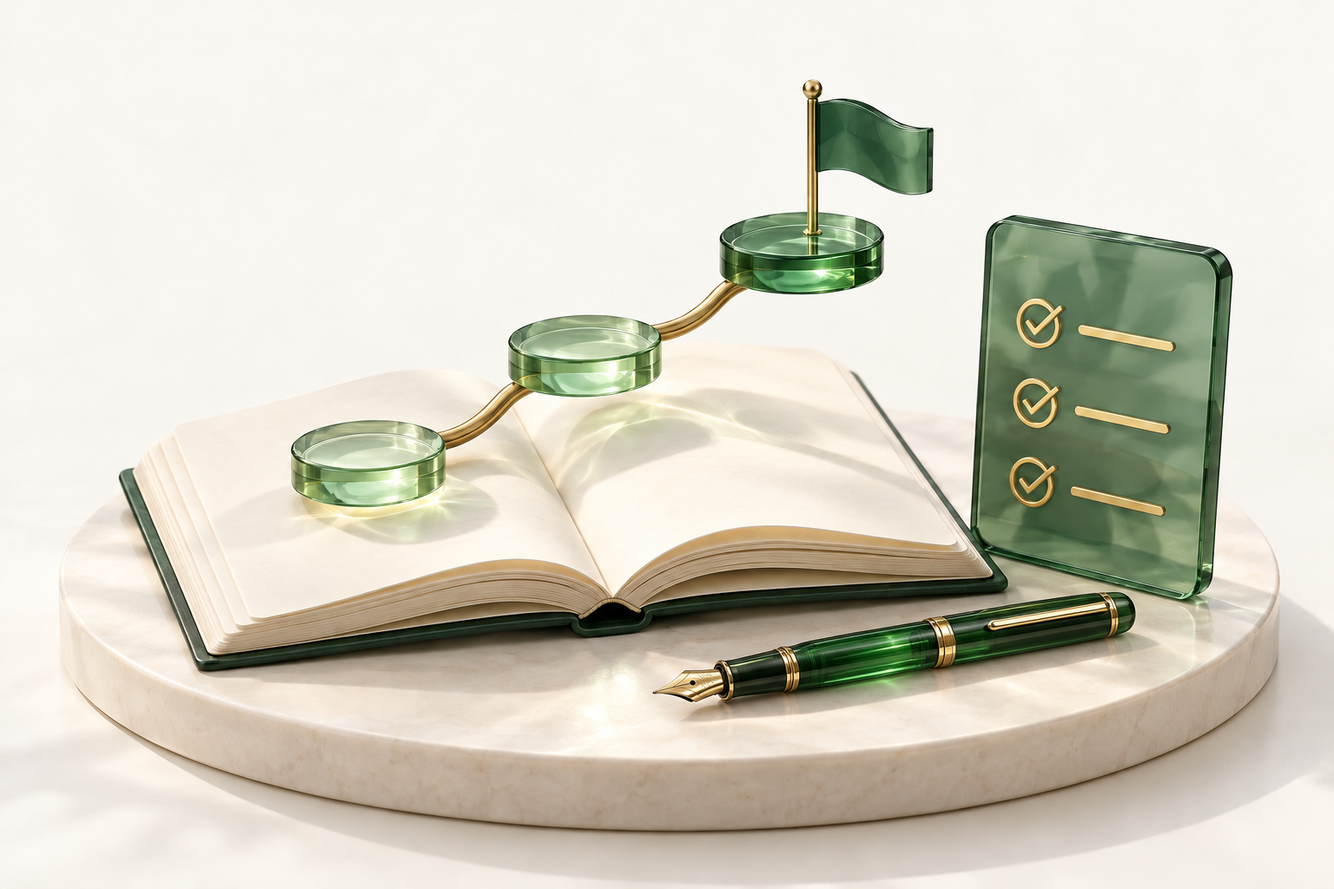
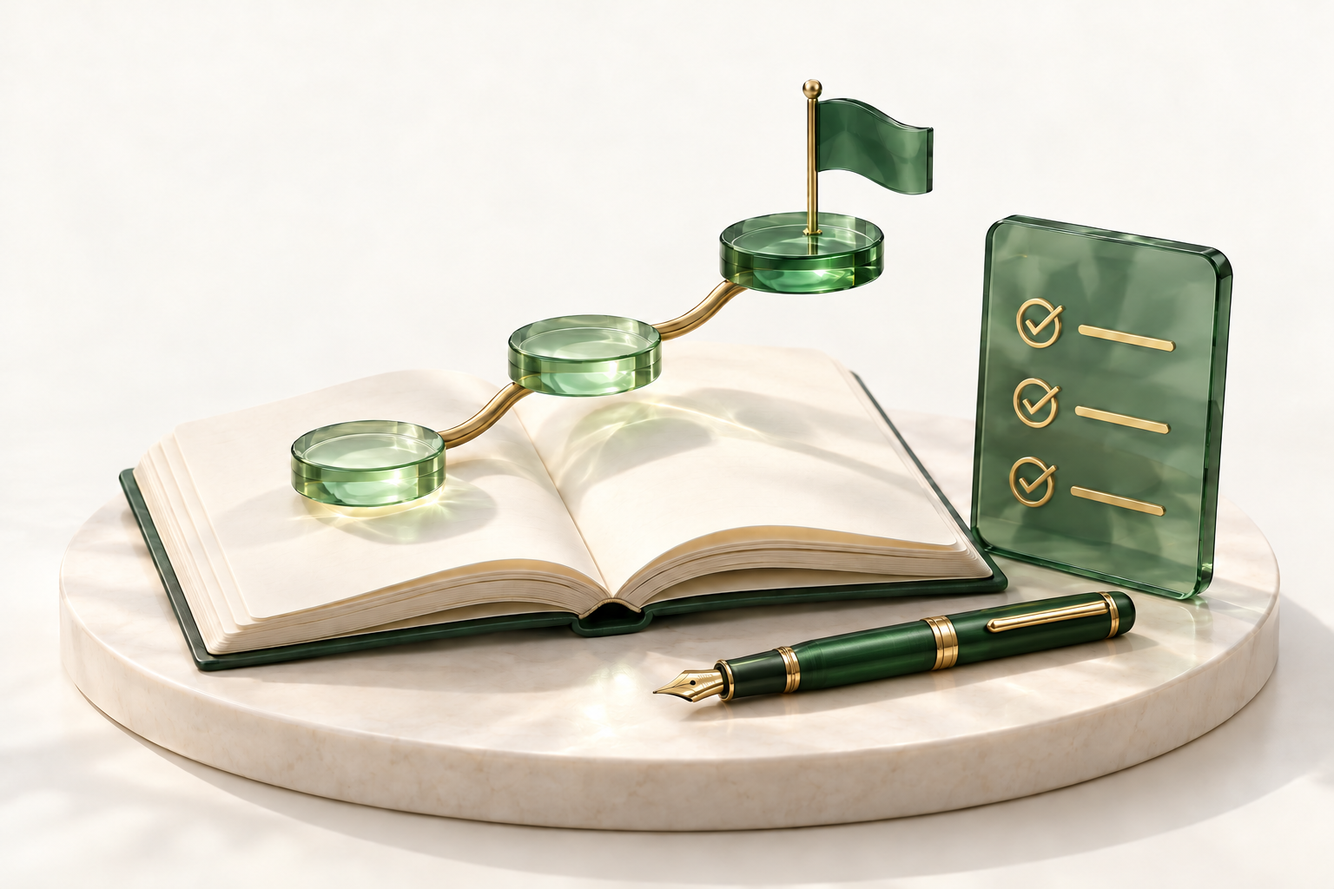
feat: simplify cloud native topics and refine fountain pen material

diff --git a/docs/pages/programming/阅读页模板.html b/docs/pages/programming/阅读页模板.html
@@ -20,6 +20,7 @@
     @media(max-width:840px){#sidebar{transform:translateX(-100%);transition:transform .2s}body.nav-open #sidebar{transform:none}.workspace{margin-left:0}.progress{left:0}#menu{display:block}header{padding:0 22px}.hero h1{font-size:42px}}
     @media(max-width:560px){header{height:60px;padding:0 16px;gap:8px}.progress{top:59px}.breadcrumb{gap:7px;font-size:10px}.breadcrumb .home-crumb{display:none}.breadcrumb b{max-width:120px}.top-actions{gap:4px}.top-actions button{font-size:10px;padding:4px 7px}main{padding:25px 21px 0}.hero{grid-template-columns:1fr;gap:12px;padding:5px 0 25px}.hero h1{font-size:38px;line-height:1.55;margin:15px 0}.hero p{max-width:none}.hero img{max-width:430px;justify-self:center}.stats{padding:17px 0;margin-bottom:28px}.stats strong{display:block;margin:0;font-size:25px}.stats span{font-size:10px}.folders{grid-template-columns:1fr;gap:14px}.folder{padding:20px}.section-heading{align-items:start;flex-direction:column;gap:6px}.section-heading h2{font-size:25px}.study-note{align-items:start;flex-direction:column;gap:13px}.document-head h1{font-size:28px}.reading-tools{gap:13px}.source-link{font-size:10px}.prose{font-size:13px}.prose h2{font-size:21px}.prose h3{font-size:17px}.prose .code-block pre{padding:15px}.document-pager{font-size:10px}.resource-frame{min-height:440px}.guide{padding:18px}.page-footer{font-size:9px;gap:12px}}
     @media(max-width:560px){.section-card{min-height:195px}.section-card h3{font-size:23px}.breadcrumb .level-crumb,.breadcrumb .level-divider{display:none}.section-page-head h1{font-size:30px}.section-page-head p{font-size:12px}}
+    .nav-topic-link{display:flex;gap:9px;align-items:center;padding:10px 8px;margin:2px 0;color:var(--ink);font-size:11px;border-radius:5px}.nav-topic-link:hover{background:var(--paper)}.nav-topic-link[aria-expanded=true]{background:var(--soft);color:var(--green)}.nav-topic-link small{margin-left:auto;color:var(--muted);font-size:10px}.topic-notes{margin-left:8px;padding-left:7px;border-left:1px solid var(--line)}.section-card.is-pending{grid-column:1/-1;min-height:0}
     .prose li.task-item{list-style:none;position:relative}.prose .task-item>input,.prose .task-item>p>input{accent-color:var(--green);width:14px;height:14px;vertical-align:middle;margin:0 7px 2px -21px;opacity:1}
     .section-card.has-cover{padding:0;overflow:hidden}.section-cover{display:block;width:100%;height:auto;aspect-ratio:3/2;object-fit:cover;background:#fafbf8}.section-copy{display:flex;flex-direction:column;flex:1;padding:24px}.has-cover .section-copy h3{margin-top:14px}.has-cover .section-copy p{flex:1}html[data-theme=dark] .section-cover{filter:brightness(.86)}
     @media(max-width:560px){.section-copy{padding:21px}.has-cover .section-bottom{gap:10px}.has-cover .section-bottom b{white-space:nowrap}}
@@ -42,7 +43,7 @@
   </aside>
   <button id="shade" aria-label="关闭目录" hidden></button>
   <div class="workspace">
-    <header><nav class="breadcrumb" aria-label="位置"><button id="menu" aria-label="打开目录" aria-expanded="false" aria-controls="sidebar">☰</button><a class="home-crumb" href="<!--HOME_URL-->">学习笔记</a><span class="home-crumb">/</span><!--PARENT_CRUMB--><a id="language-crumb" class="level-crumb" href="#overview" hidden></a><span id="language-divider" class="level-divider" hidden>/</span><a id="section-crumb" class="level-crumb" hidden></a><span id="section-divider" class="level-divider" hidden>/</span><b id="breadcrumb-title"><!--TITLE--></b></nav><div class="top-actions"><button id="theme" aria-label="切换深色模式" aria-pressed="false">深色</button><button id="print">打印</button></div></header>
+    <header><nav class="breadcrumb" aria-label="位置"><button id="menu" aria-label="打开目录" aria-expanded="false" aria-controls="sidebar">☰</button><a class="home-crumb" href="<!--HOME_URL-->">学习笔记</a><span class="home-crumb">/</span><!--PARENT_CRUMB--><a id="language-crumb" class="level-crumb" href="#overview" hidden></a><span id="language-divider" class="level-divider" hidden>/</span><a id="section-crumb" class="level-crumb" hidden></a><span id="section-divider" class="level-divider" hidden>/</span><a id="topic-crumb" class="level-crumb" hidden></a><span id="topic-divider" class="level-divider" hidden>/</span><b id="breadcrumb-title"><!--TITLE--></b></nav><div class="top-actions"><button id="theme" aria-label="切换深色模式" aria-pressed="false">深色</button><button id="print">打印</button></div></header>
     <div class="progress" aria-hidden="true"><span id="progress"></span></div>
     <main id="main" tabindex="-1">
       <section id="overview"></section>
@@ -67,31 +68,40 @@
     const save=(key,value)=>{try{localStorage.setItem('programming-'+config.slug+'-'+key,value)}catch{}};
     const labels={note:'笔记',practice:'习题',diagram:'图解',pdf:'PDF',resource:'资料',...(config.kindLabels||{})};
     if(config.kindLabels){document.querySelector('[data-filter=practice]').hidden=true;document.querySelector('[data-filter=material]').hidden=!pages.some(p=>['pdf','resource'].includes(p.kind));document.querySelector('[data-filter=note]').textContent='计划';document.querySelector('[data-filter=diagram]').textContent='HTML';document.querySelector('#document').setAttribute('aria-label','当前计划');document.querySelector('#search').placeholder='搜索计划、任务与学习方向'}
-    let active='overview', filter='all', mode=get('mode')||'full', currentPage=null, currentSection=null, tocNodes=[], pendingQuery='';
+    let active='overview', filter='all', mode=get('mode')||'full', currentPage=null, currentSection=null, currentTopic=null, tocNodes=[], pendingQuery='';
     if(!['guide','full'].includes(mode))mode='full';
     const groups=[...new Set(pages.map(p=>p.group))];
-    const sections=config.sections||[];
+    const sections=config.sections||[], topics=sections.flatMap(section=>section.topics||[]);
     $('language-select').innerHTML=config.languages.map(item=>'<option value="'+escape(item.slug)+'"'+(item.slug===config.slug?' selected':'')+'>'+escape(item.title)+'</option>').join('');
     $('language-select').addEventListener('change',()=>location.href='../'+encodeURIComponent($('language-select').value)+'/');
     function catalog(){
       const terms=$('search').value.toLocaleLowerCase().trim().split(/\s+/).filter(Boolean);
-      const found=pages.filter(p=>(filter==='all'||(filter==='material'?['pdf','resource'].includes(p.kind):p.kind===filter))&&terms.every(term=>(p.title+' '+p.group+' '+p.search).toLocaleLowerCase().includes(term))&&(!currentSection||terms.length||p.section===currentSection.key));
+      const found=pages.filter(p=>(filter==='all'||(filter==='material'?['pdf','resource'].includes(p.kind):p.kind===filter))&&terms.every(term=>(p.title+' '+p.group+' '+p.search).toLocaleLowerCase().includes(term))&&(!currentSection||terms.length||p.section===currentSection.key)&&(!currentTopic||terms.length||p.topic===currentTopic.key));
       const home='<a class="nav-home" href="#overview"'+(active==='overview'?' aria-current="page"':'')+'>⌂　'+escape(config.title)+' 总览</a>';
       if(sections.length&&!terms.length&&filter==='all'){
-        $('catalog').innerHTML=home+sections.map(section=>{const selected=currentSection?.id===section.id;return '<div class="nav-section"><a class="nav-section-link" href="#'+section.id+'" aria-expanded="'+selected+'"'+(active===section.id?' aria-current="page"':'')+'><span class="section-chevron" aria-hidden="true">›</span><span>'+escape(section.title)+'</span><span class="section-count">'+section.count+'</span></a>'+(selected?'<div class="section-notes">'+noteLinks(pages.filter(p=>p.section===section.key),true)+'</div>':'')+'</div>'}).join('');
+        $('catalog').innerHTML=home+sections.map(section=>{const selected=currentSection?.id===section.id;return '<div class="nav-section"><a class="nav-section-link" href="#'+section.id+'" aria-expanded="'+selected+'"'+(active===section.id?' aria-current="page"':'')+'><span class="section-chevron" aria-hidden="true">›</span><span>'+escape(section.title)+'</span><span class="section-count">'+section.count+'</span></a>'+(selected?'<div class="section-notes">'+sectionLinks(section)+'</div>':'')+'</div>'}).join('');
       }else{
         $('catalog').innerHTML=home+(sections.length?'<p class="search-scope">'+(terms.length?'搜索全部 '+escape(config.title)+' 笔记':escape(currentSection?.title||config.title)+' · 按类型筛选')+' · '+found.length+' 项</p>':'')+noteLinks(found,false)+(!found.length?'<p class="empty" role="status">没有找到对应内容，试试其他关键词或选择“全部”。</p>':'');
       }
       document.querySelectorAll('[data-filter]').forEach(button=>button.setAttribute('aria-pressed',String(button.dataset.filter===filter)));
     }
+    function sectionLinks(section){
+      if(!section.topics?.length)return noteLinks(pages.filter(p=>p.section===section.key),true);
+      return section.topics.map(topic=>{const selected=currentTopic?.id===topic.id;return '<a class="nav-topic-link" href="#'+topic.id+'" aria-expanded="'+selected+'"'+(active===topic.id?' aria-current="page"':'')+'><span aria-hidden="true">'+(selected?'⌄':'›')+'</span><span>'+escape(topic.title)+'</span><small>'+topic.count+'</small></a>'+(selected?'<div class="topic-notes">'+noteLinks(pages.filter(p=>p.section===section.key&&p.topic===topic.key),true)+'</div>':'')}).join('');
+    }
     function noteLinks(entries,scoped){let group='';return entries.map(p=>{const label=scoped?p.subgroup:p.group,heading=group===label?'':'<div class="nav-group">'+escape(label)+'</div>';group=label;return heading+'<a class="nav-link" href="#'+p.id+'"'+(active===p.id?' aria-current="page"':'')+'><span class="badge">'+(p.pending?'待补充':labels[p.kind])+'</span><span>'+escape(p.title)+'</span></a>'}).join('')}
     function link(p){return '<li><a href="#'+p.id+'"><span>'+escape(p.title)+'</span><span>'+ (p.pending?'待补充':labels[p.kind]+' ↗')+'</span></a></li>'}
     function folderGrid(entries,scoped){const key=p=>scoped?p.subgroup:p.group,labels=[...new Set(entries.map(key))];return '<div class="folders">'+labels.map((group,index)=>{const notes=entries.filter(p=>key(p)===group);return '<section class="folder"><div class="folder-top"><span>'+String(index+1).padStart(2,'0')+'</span><span>'+notes.length+' 篇</span></div><h3>'+escape(group)+'</h3><ul class="folder-list">'+notes.slice(0,5).map(link).join('')+'</ul>'+(notes.length>5?'<details><summary>展开其余 '+(notes.length-5)+' 篇</summary><ul class="folder-list">'+notes.slice(5).map(link).join('')+'</ul></details>':'')+'</section>'}).join('')+'</div>'}
-    function overview(section){
-      if(section){const entries=pages.filter(p=>p.section===section.key);$('overview').innerHTML='<div class="section-page-head"><a href="#overview">← 返回 '+escape(config.title)+' 总览</a><div class="eyebrow">'+escape(config.label)+' / '+escape(section.title)+'</div><h1>'+escape(section.title)+'</h1><p>'+escape(section.description)+'</p><div class="document-meta"><span>'+section.notes+' '+escape(config.itemNoun||'篇笔记')+'</span><span>'+section.resources+' 份图解与资料</span></div></div>'+folderGrid(entries,true);return}
+    function overview(section,topic){
+      if(section){
+        const entries=pages.filter(p=>p.section===section.key&&(!topic||p.topic===topic.key)), view=topic||section;
+        const head='<div class="section-page-head"><a href="#'+(topic?section.id:'overview')+'">← 返回 '+escape(topic?section.title:config.title+' 总览')+'</a><div class="eyebrow">'+escape(config.label)+' / '+escape(section.title)+'</div><h1>'+escape(view.title)+'</h1><p>'+escape(view.description)+'</p><div class="document-meta"><span>'+view.notes+' '+escape(config.itemNoun||'篇笔记')+'</span><span>'+view.resources+' 份图解与资料</span>'+(view.pending?'<span>'+view.pending+' 篇待补充</span>':'')+'</div></div>';
+        const cards=!topic&&section.topics?.length?'<div class="folders topic-cards">'+section.topics.map((item,index)=>'<a class="folder section-card topic-card" href="#'+item.id+'"><div class="folder-top"><span>TOPIC '+String(index+1).padStart(2,'0')+'</span><span aria-hidden="true">↗</span></div><h3>'+escape(item.title)+'</h3><p>'+escape(item.description)+'</p><div class="section-bottom"><span>'+item.notes+' 篇笔记 · '+item.resources+' 份资料</span><b>进入主题 →</b></div></a>').join('')+'</div>':folderGrid(entries,true);
+        $('overview').innerHTML=head+cards;return;
+      }
       const last=pages.find(p=>p.id===get('last'))||pages.find(p=>!p.pending&&['note','practice'].includes(p.kind));
       const start=sections.length&&!get('last')?sections[0].id:last?.id;
-      const cards=sections.length?'<div class="folders section-cards">'+sections.map((item,index)=>'<a class="folder section-card'+(item.cover?' has-cover':'')+'" href="#'+item.id+'">'+(item.cover?'<img class="section-cover" src="'+escape(item.cover)+'" alt="" width="1536" height="1024" loading="lazy" decoding="async"><div class="section-copy">':'')+'<div class="folder-top"><span>SECTION '+String(index+1).padStart(2,'0')+'</span><span aria-hidden="true">↗</span></div><h3>'+escape(item.title)+'</h3><p>'+escape(item.description)+'</p><div class="section-bottom"><span>'+item.notes+' '+escape(config.itemNoun||'篇笔记')+' · '+item.resources+' 份资料'+(item.pending?' · '+item.pending+' 篇待补充':'')+'</span><b>进入板块 →</b></div>'+(item.cover?'</div>':'')+'</a>').join('')+'</div>':folderGrid(pages,false);
+      const cards=sections.length?'<div class="folders section-cards">'+sections.map((item,index)=>'<a class="folder section-card'+(item.cover?' has-cover':'')+(!item.notes&&!item.resources&&item.pending?' is-pending':'')+'" href="#'+item.id+'">'+(item.cover?'<img class="section-cover" src="'+escape(item.cover)+'" alt="" width="1536" height="1024" loading="lazy" decoding="async"><div class="section-copy">':'')+'<div class="folder-top"><span>SECTION '+String(index+1).padStart(2,'0')+'</span><span aria-hidden="true">↗</span></div><h3>'+escape(item.title)+'</h3><p>'+escape(item.description)+'</p><div class="section-bottom"><span>'+item.notes+' '+escape(config.itemNoun||'篇笔记')+' · '+item.resources+' 份资料'+(item.pending?' · '+item.pending+' 篇待补充':'')+'</span><b>进入板块 →</b></div>'+(item.cover?'</div>':'')+'</a>').join('')+'</div>':folderGrid(pages,false);
       $('overview').innerHTML='<section class="hero"><div><div class="eyebrow">'+escape(config.label)+' / LEARNING NOTES</div><h1>'+escape(config.heroLines[0])+'<br><em>'+escape(config.heroLines[1])+'</em></h1><p>'+escape(config.description)+'</p><div class="hero-links">'+(start?'<a class="primary" href="#'+start+'">'+(get('last')?'继续阅读':sections.length?'选择学习板块':'开始阅读')+' <span aria-hidden="true">↗</span></a>':'')+'<a class="text-link" href="'+escape(config.source)+'" target="_blank" rel="noopener">查看原笔记 ↗</a></div></div><img src="'+escape(config.coverUrl)+'" alt="" width="1536" height="1024"></section><div class="stats"><div><strong>'+config.notes+'</strong><span>'+escape(config.noteNoun||'篇学习笔记')+'</span></div><div><strong>'+(sections.length||groups.length)+'</strong><span>'+(sections.length?(config.sectionNoun||'个学习板块'):'个内容分类')+'</span></div><div><strong>'+config.resources+'</strong><span>'+escape(config.resourceNoun||'份图解与资料')+'</span></div></div><section aria-labelledby="folder-heading"><div class="section-heading"><div><div class="eyebrow">FOLLOW THE NOTES / 沿着目录阅读</div><h2 id="folder-heading">'+(config.sectionHeading||(sections.length?'选择一个板块，继续学习。':'把知识，一点点连起来。'))+'</h2><p>'+(config.sectionIntro||(sections.length?'先理清方向，再进入具体的笔记与练习。':'从基础语法到补充理解，再在习题与实践中检验。'))+'</p></div><span class="text-link">'+(sections.length?sections.length+' 个板块':pages.length+' 个阅读条目')+'</span></div>'+cards+'</section>'+(sections.length?'':'<section class="study-note"><h2>学会一个概念，<br>也试着写一段代码。</h2><p>先理解例子，再独立实现。遇到疑问时回到笔记，把使用条件、错误原因和自己的解释一起留下来。</p></section>');
     }
     function highlight(){
@@ -112,20 +122,25 @@
     }
     function render(){
       let hash;try{hash=decodeURIComponent(location.hash.slice(1))}catch{hash='overview'}
+      hash=config.redirects?.[hash]||hash;
+      const selectedTopic=topics.find(topic=>topic.id===hash);
       const page=pages.find(p=>p.id===hash||p.headings.some(h=>h.id===hash));
-      currentSection=page?sections.find(section=>section.key===page.section)||null:sections.find(section=>section.id===hash)||null;
-      active=page?.id||currentSection?.id||'overview';currentPage=page||null;
-      $('overview').hidden=!!page;$('document').hidden=!page;$('breadcrumb-title').textContent=page?.title||currentSection?.title||config.title;
+      currentSection=page?sections.find(section=>section.key===page.section)||null:selectedTopic?sections.find(section=>section.key===selectedTopic.section)||null:sections.find(section=>section.id===hash)||null;
+      currentTopic=page?topics.find(topic=>topic.section===page.section&&topic.key===page.topic)||null:selectedTopic||null;
+      active=page?.id||currentTopic?.id||currentSection?.id||'overview';currentPage=page||null;
+      $('overview').hidden=!!page;$('document').hidden=!page;$('breadcrumb-title').textContent=page?.title||currentTopic?.title||currentSection?.title||config.title;
       $('language-crumb').textContent=config.title;$('language-crumb').hidden=$('language-divider').hidden=!page&&!currentSection;
-      $('section-crumb').hidden=$('section-divider').hidden=!page||!currentSection;
+      $('section-crumb').hidden=$('section-divider').hidden=(!page&&!currentTopic)||!currentSection;
       if(currentSection){$('section-crumb').textContent=currentSection.title;$('section-crumb').href='#'+currentSection.id}
-      document.title=(page?page.title+' · ':currentSection?currentSection.title+' · ':'')+config.title+' · 学习笔记';
-      if(!page){$('note-body').replaceChildren();$('resource').replaceChildren();tocNodes=[];overview(currentSection);catalog();menu(false);window.scrollTo(0,0);progress();return}
+      $('topic-crumb').hidden=$('topic-divider').hidden=!page||!currentTopic;
+      if(currentTopic){$('topic-crumb').textContent=currentTopic.title;$('topic-crumb').href='#'+currentTopic.id}
+      document.title=(page?page.title+' · ':currentTopic?currentTopic.title+' · ':currentSection?currentSection.title+' · ':'')+config.title+' · 学习笔记';
+      if(!page){$('note-body').replaceChildren();$('resource').replaceChildren();tocNodes=[];overview(currentSection,currentTopic);catalog();menu(false);window.scrollTo(0,0);progress();return}
       const isNote=['note','practice'].includes(page.kind), headingTarget=page.headings.some(h=>h.id===hash);
       if(headingTarget)mode='full';
       save('last',page.id);$('doc-title').textContent=page.title;$('doc-group').textContent=page.group;
       $('document-back').hidden=!currentSection;
-      if(currentSection){$('document-back').href='#'+currentSection.id;$('document-back').textContent='← 返回 '+currentSection.title}
+      if(currentSection){const parent=currentTopic||currentSection;$('document-back').href='#'+parent.id;$('document-back').textContent='← 返回 '+parent.title}
       $('doc-meta').innerHTML='<span>'+labels[page.kind]+'</span>'+(!isNote?'<span>'+escape(page.format)+'</span>':'')+(page.pending?'<span>内容待补充</span>':'')+(page.tasks?.total?'<span>原文勾选记录 '+page.tasks.done+' / '+page.tasks.total+' 项</span>':'');
       $('source').href=page.source;$('source').textContent=isNote?'查看 Markdown 原笔记 ↗':'查看与下载原文件 ↗';
       $('mode-switch').hidden=!isNote||page.pending;$('guide').hidden=!isNote||page.pending||mode!=='guide';
@@ -143,7 +158,7 @@
         const a=document.createElement('a');a.textContent=page.kind==='resource'?'查看与下载原文件 ↗':'独立打开 ↗';a.href=page.embed||page.pdf||page.source;a.target='_blank';a.rel='noopener';panel.append(a);$('resource').append(panel);
         if(page.embed||page.pdf){const frame=document.createElement('iframe');frame.className='resource-frame';frame.title=page.title;if(page.embed){frame.setAttribute('sandbox','allow-scripts');frame.src=page.embed}else{frame.src='<!--PDF_BASE-->pdfjs/web/viewer.html?file='+encodeURIComponent(new URL(page.pdf,location.href).href)+'#zoom=page-width&pagemode=none'}$('resource').append(frame)}
       }
-      const sequence=currentSection?pages.filter(p=>p.section===currentSection.key):pages,index=sequence.indexOf(page),previous=sequence[index-1],next=sequence[index+1],back=currentSection?.id||'overview',backTitle=currentSection?'返回 '+currentSection.title:'返回总览';
+      const sequence=currentTopic?pages.filter(p=>p.section===currentSection.key&&p.topic===currentTopic.key):currentSection?pages.filter(p=>p.section===currentSection.key):pages,index=sequence.indexOf(page),previous=sequence[index-1],next=sequence[index+1],parent=currentTopic||currentSection,back=parent?.id||'overview',backTitle=parent?'返回 '+parent.title:'返回总览';
       $('pager').innerHTML='<a href="#'+(previous?.id||back)+'">← '+escape(previous?.title||backTitle)+'</a><a href="#'+(next?.id||back)+'">'+escape(next?.title||backTitle)+' →</a>';
       document.querySelectorAll('[data-mode]').forEach(button=>button.setAttribute('aria-pressed',String(button.dataset.mode===mode)));
       highlight();tocNodes=[...$('note-body').querySelectorAll('h1,h2,h3')];catalog();menu(false);window.scrollTo(0,0);progress();
@@ -164,7 +179,7 @@
     $('search').addEventListener('input',catalog);
     document.querySelectorAll('[data-filter]').forEach(button=>button.addEventListener('click',()=>{filter=button.dataset.filter;catalog()}));
     document.querySelectorAll('[data-mode]').forEach(button=>button.addEventListener('click',()=>{mode=button.dataset.mode;save('mode',mode);if(currentPage)history.replaceState(null,'','#'+currentPage.id);render()}));
-    document.addEventListener('click',event=>{const full=event.target.closest('[data-full]');if(full){event.preventDefault();mode='full';save('mode',mode);render()}const link=event.target.closest('a[href^="#"]');if(link&&(link.hash==='#overview'||sections.some(section=>link.hash==='#'+section.id))){$('search').value='';filter='all';pendingQuery=''}});
+    document.addEventListener('click',event=>{const full=event.target.closest('[data-full]');if(full){event.preventDefault();mode='full';save('mode',mode);render()}const link=event.target.closest('a[href^="#"]');if(link&&(link.hash==='#overview'||sections.some(section=>link.hash==='#'+section.id)||topics.some(topic=>link.hash==='#'+topic.id))){$('search').value='';filter='all';pendingQuery=''}});
     document.addEventListener('keydown',event=>{if((event.ctrlKey||event.metaKey)&&event.key.toLowerCase()==='k'){event.preventDefault();if(matchMedia('(max-width:840px)').matches)menu(true);$('search').focus()}if(event.key==='Escape'&&document.body.classList.contains('nav-open')){menu(false);$('menu').focus()}});
     $('note-body').addEventListener('click',async event=>{const button=event.target.closest('.copy-code');if(!button)return;const text=button.closest('.code-block').querySelector('code').textContent;try{if(navigator.clipboard&&window.isSecureContext)await navigator.clipboard.writeText(text);else{const field=document.createElement('textarea');field.value=text;field.style.position='fixed';field.style.opacity='0';document.body.append(field);field.select();const copied=document.execCommand('copy');field.remove();if(!copied)throw new Error('copy failed')}button.textContent='已复制'}catch{button.textContent='请选择代码复制'}setTimeout(()=>button.textContent='复制代码',1800)});
     function themeButton(){const dark=document.documentElement.dataset.theme==='dark';$('theme').textContent=dark?'浅色':'深色';$('theme').setAttribute('aria-pressed',String(dark));$('theme').setAttribute('aria-label',dark?'切换浅色模式':'切换深色模式')}

diff --git a/docs/pages/build_site.py b/docs/pages/build_site.py
@@ -1334,6 +1334,24 @@ def build_readers(output, github, branch, languages, source, destination, *, pro
                     markup = markup[:answer.start()] + '<details class="answers"><summary>展开参考答案与解析</summary>' + markup[answer.start():] + '</details>'
             page["full"] = markup
 
+    if cloud:
+        for language in languages:
+            for page in language["entries"]:
+                original_section = page["section"]
+                page["originalSection"] = original_section
+                parts = page["relative"].split("/")
+                page["topic"] = ""
+                if page["pending"]:
+                    page["section"] = "待学与拓展"
+                    page["subgroup"] = original_section
+                elif original_section in ("数据库与中间件", "运维与服务部署") and len(parts) > 1:
+                    page["topic"] = parts[1] if len(parts) > 2 else page["title"]
+                    subgroup = " / ".join(parts[2:-1]) or "基础笔记"
+                    page["subgroup"] = {
+                        "MinIO-Java / md": "Java 集成", "基础知识 / 小窍门": "补充理解",
+                        "基础知识 / 系统操作手册": "系统操作手册", "操作踩坑手册": "排错与易错点",
+                    }.get(subgroup, subgroup)
+
     attributes = re.compile(r'(?P<prefix>\b(?P<attribute>href|src)\s*=\s*)(?P<q>["\'])(?P<url>[^"\']*)(?P=q)')
     for language in languages:
         target_folder = destination / language["slug"]
@@ -1390,12 +1408,16 @@ def build_readers(output, github, branch, languages, source, destination, *, pro
                 "Kubernetes": "围绕工作负载、服务与配置，整理 Kubernetes 编排和 Helm 实践。",
                 "可观测性": "通过日志、指标与链路追踪，逐步看清服务的运行状态。",
                 "微服务": "理解服务的拆分、通信与协作，逐步建立系统视角。",
+                "待学与拓展": "集中查看尚未填写正文的主题，待补充内容后自动回到对应板块。",
                 "进行中": "从当前总路线与专项计划出发，按实际任务和阶段验收继续推进。",
                 "阶段性完成": "保留已经阶段性完成的学习路线，按需要回顾与复习。",
                 "已结束或舍弃": "查阅旧版安排与历史方向；当前执行以进行中的计划为准。",
                 "学习方法": "回顾 AI 辅助学习的方法、独立实践与复盘要求。",
             }
-            for key in dict.fromkeys(page["section"] for page in language["entries"]):
+            section_keys = list(dict.fromkeys(page["section"] for page in language["entries"]))
+            if cloud:
+                section_keys.sort(key=lambda key: (key == "待学与拓展", group_names.get(key.casefold(), len(group_order)), key))
+            for key in section_keys:
                 entries = [page for page in language["entries"] if page["section"] == key]
                 cover = language.get("section_covers", {}).get(key)
                 if cover and not (target_folder / "阅读资源" / cover).is_file():
@@ -1408,6 +1430,24 @@ def build_readers(output, github, branch, languages, source, destination, *, pro
                     pending=sum(page["pending"] for page in entries),
                     cover="阅读资源/" + cover if cover else "",
                     resources=sum(page["kind"] not in ("note", "practice") for page in entries)))
+                if cloud:
+                    topic_order = ["MySQL", "Nginx", "EMQX", "MinIO", "SRS", "换热站项目", "ANIC项目"]
+                    topic_keys = sorted({page["topic"] for page in entries if page["topic"]},
+                                        key=lambda name: (topic_order.index(name) if name in topic_order else len(topic_order), name))
+                    topics = []
+                    for topic in topic_keys:
+                        members = [page for page in entries if page["topic"] == topic]
+                        topics.append(dict(key=topic, section=key, title=topic,
+                                           id="topic-" + hashlib.sha256((key+"/"+topic).casefold().encode()).hexdigest()[:12],
+                                           description="查看这个主题的笔记、操作手册与学习资料。",
+                                           count=len(members), notes=sum(page["kind"] in ("note", "practice") for page in members),
+                                           resources=sum(page["kind"] not in ("note", "practice") for page in members)))
+                    config["sections"][-1]["topics"] = topics
+        if cloud:
+            pending_id = "section-" + hashlib.sha256("待学与拓展".encode()).hexdigest()[:12]
+            current_keys = {section["key"] for section in config["sections"]}
+            config["redirects"] = {"section-" + hashlib.sha256(page["originalSection"].casefold().encode()).hexdigest()[:12]: pending_id
+                                   for page in language["entries"] if page["pending"] and page["originalSection"] not in current_keys}
         config["languages"] = [dict(slug=item["slug"], title=item["title"]) for item in languages]
         config["source"] = original(language["folder"])
         config["coverUrl"] = ("阅读资源/" if standalone else "../阅读资源/") + language["cover"]

diff --git a/docs/pages/test_cloud_native.py b/docs/pages/test_cloud_native.py
@@ -1,5 +1,6 @@
 """Check automatic cloud-native discovery, duplicate routes and resource packaging."""
 import contextlib
+import hashlib
 import io
 import json
 from pathlib import Path
@@ -54,7 +55,12 @@ class CloudNativeReaderTests(unittest.TestCase):
         self.write("运维与服务部署/ANIC项目/环境.md", "# 环境\n\n实测记录。")
         text = self.build()
         self.assertEqual([s["title"] for s in self.config["sections"]],
-                         ["Docker", "DevOps", "数据库与中间件", "运维与服务部署", "Kubernetes", "可观测性", "微服务"])
+                         ["Docker", "DevOps", "运维与服务部署", "待学与拓展"])
+        pending = next(s for s in self.config["sections"] if s["title"] == "待学与拓展")
+        self.assertEqual(pending["count"], 4)
+        self.assertTrue(all(p["section"] == "待学与拓展" for p in self.pages if p["pending"]))
+        old_k8s = "section-" + hashlib.sha256("Kubernetes".casefold().encode()).hexdigest()[:12]
+        self.assertEqual(self.config["redirects"][old_k8s], pending["id"])
         self.assertEqual(self.config["pending"], 4)
         self.assertEqual(self.config["notes"], 3)
         self.assertNotIn("<!--HOME_URL-->", text)
@@ -74,7 +80,31 @@ class CloudNativeReaderTests(unittest.TestCase):
         new.unlink()
         self.build()
         self.assertNotIn("网络", [p["title"] for p in self.pages])
+        redis = next(p for p in self.pages if p["title"] == "Redis")
+        self.write("数据库与中间件/Redis.md", "# Redis\n\n开始补充正文。")
+        self.write("Kubernetes/Helm.md", "# Helm\n\n已有内容。")
+        self.build()
+        changed_redis = next(p for p in self.pages if p["title"] == "Redis")
+        self.assertEqual(changed_redis["id"], redis["id"])
+        self.assertEqual(changed_redis["section"], "数据库与中间件")
+        self.assertEqual(changed_redis["topic"], "Redis")
+        self.assertNotIn(old_k8s, self.config["redirects"])
+        database = next(s for s in self.config["sections"] if s["key"] == "数据库与中间件")
+        self.assertEqual([t["title"] for t in database["topics"]], ["Redis"])
         build_site.validate(self.output)
+
+    def test_database_topics_and_pending_are_separate(self):
+        for name in ("MySQL/基础知识/MySQL", "MySQL/基础知识/系统操作手册/Linux", "Nginx/Nginx",
+                     "EMQX/EMQX", "MinIO/MinIO", "MinIO/MinIO-Java/md/minio", "SRS/SRS"):
+            self.write("数据库与中间件/" + name + ".md", "# 笔记\n\n" + name)
+        self.write("数据库与中间件/Kafka.md", "")
+        self.build()
+        section = next(s for s in self.config["sections"] if s["key"] == "数据库与中间件")
+        self.assertEqual([t["title"] for t in section["topics"]], ["MySQL", "Nginx", "EMQX", "MinIO", "SRS"])
+        self.assertEqual(sum(t["count"] for t in section["topics"]), 7)
+        self.assertTrue(all(not p["pending"] for p in self.pages if p["section"] == section["key"]))
+        self.assertEqual(next(p for p in self.pages if p["title"] == "minio")["subgroup"], "Java 集成")
+        self.assertEqual(next(p for p in self.pages if p["title"] == "Linux")["subgroup"], "系统操作手册")
 
     def test_duplicate_aliases_headings_images_and_materials(self):
         manual = "# 部署\n\n## 验证\n\n相同的部署记录。"

diff --git a/docs/pages/cloud-native/README.md b/docs/pages/cloud-native/README.md
@@ -4,13 +4,15 @@
 
 使用 `../build_site.py` 自动读取仓库 `云原生/` 下的 Markdown、HTML 图解、PDF 与课件。与 Java、Python 共用 `../programming/阅读页模板.html`，统一维护阅读模式、搜索、目录、主题与代码复制功能。页面相关源文件在 docs，生成站点位于被 Git 忽略的 `docs/site`。
 
-首页按现有目录展示 Docker、DevOps、数据库与中间件、运维与服务部署、Kubernetes、可观测性、微服务七个板块。进入板块后才展开子目录与笔记；全文搜索覆盖全部板块。空白笔记显示“待补充”，不计入已有正文的笔记数。新文件与目录在下次构建时自动收录。
+首页展示 Docker、DevOps、数据库与中间件、运维与服务部署，以及“待学与拓展”五个板块。所有空白笔记集中归入“待学与拓展”，按原主题分组；当前共 10 篇。补上正文后，下次构建自动回到对应板块，原文件位置和篇目锚点不变。Kubernetes、可观测性、微服务目前只有空白笔记，首页不单独展示。
+
+“数据库与中间件”先展示 MySQL、Nginx、EMQX、MinIO、SRS 五个主题入口，点击后才显示该主题的子目录、笔记和资料；“运维与服务部署”先选择换热站或 ANIC 项目。侧栏同步只展开当前主题，面包屑和返回链接保留层级。搜索覆盖全部板块和待学主题，已有文章与小节地址继续有效；旧的空白板块入口转到“待学与拓展”。
 
 内容完全相同的非空 Markdown 只保留一个阅读入口，优先使用项目部署目录中的版本；指向重复文件的链接转到同一入口。有差异的同名手册分别保留。原笔记不移动、不删除。
 
 封面由内置 imagegen 生成，以玻璃云朵、服务器、容器与数据库体现主题，与数学和编程语言页面的米白、墨绿、黄铜材质保持一致：[封面](阅读资源/cloud-native-hero.png) · [最终提示词](阅读资源/cloud-native-hero.prompt.txt)。
 
-七个板块另有独立的 imagegen 封面，采用与总封面一致的材质与配色，图片和最终提示词均保存在 `阅读资源/`。卡片保留完整图片比例，图片下方展示板块名称、介绍和笔记数量；小屏幕切换为单列。图片使用延迟加载。
+已有内容的四个板块使用各自的 imagegen 封面，采用与总封面一致的材质与配色；“待学与拓展”为文字卡片。之前生成的 Kubernetes、可观测性、微服务封面保留在 `阅读资源/`，这些板块出现正文后会自动使用。主题入口为文字卡片。封面保留完整比例并延迟加载，小屏幕切换为单列。
 
 | 板块 | 封面 | 最终提示词 | 主题 |
 | --- | --- | --- | --- |

diff --git a/docs/pages/README.md b/docs/pages/README.md
@@ -99,11 +99,11 @@ Java 和 Python 采用“语言总览 → 学习板块 → 笔记”的三级阅
 
 ## 云原生阅读页
 
-访问 `/cloud-native/`，首页展示 Docker、DevOps、数据库与中间件、运维与服务部署、Kubernetes、可观测性、微服务七个板块。进入板块后再展开子目录与笔记，侧栏只展开当前板块；搜索覆盖全部云原生笔记。现有内容包含 32 篇非空 Markdown、10 篇待补充笔记、1 份 HTML 图解、2 份 PDF 与 1 份 PowerPoint 资料。
+访问 `/cloud-native/`，首页展示 Docker、DevOps、数据库与中间件、运维与服务部署，以及“待学与拓展”五个板块。数据库与中间件先选择 MySQL、Nginx、EMQX、MinIO、SRS，再展开笔记；运维与服务部署先选择项目。侧栏同步只展开当前主题，搜索覆盖全部云原生笔记。现有内容包含 32 篇非空 Markdown、10 篇待补充笔记、1 份 HTML 图解、2 份 PDF 与 1 份 PowerPoint 资料。
 
 正文直接读取 `云原生/`，新增笔记或目录后随下次构建自动加入。完全相同的非空 Markdown 合并阅读入口，优先展示项目部署目录中的版本；原文件保留，原笔记互链会转到同一阅读入口。有差异的同名手册分别收录。PDF 沿用 PDF.js，PowerPoint 提供原文件入口，图片随站点打包。
 
-页面复用编程语言阅读模板，提供全文搜索、目录速览与完整笔记、代码复制、本篇目录、深色模式、打印和上次阅读记录。空白笔记与板块明确标为“待补充”。[总封面、七个板块封面与提示词](cloud-native/README.md) 保存在 docs，使用内置 imagegen 生成；板块封面以完整比例展示并延迟加载。
+页面复用编程语言阅读模板，提供全文搜索、目录速览与完整笔记、代码复制、本篇目录、深色模式、打印和上次阅读记录。所有空白笔记集中放在“待学与拓展”，补充正文后自动回到原主题，不移动源文件。[总封面、板块封面与提示词](cloud-native/README.md) 保存在 docs，使用内置 imagegen 生成；已有内容的板块展示封面，其余封面保留以供后续使用。
 
 回归检查：`python -m unittest discover -s docs/pages -p 'test_*.py'`，包含自动更新、重复手册的锚点跳转、原目录配图及编程语言阅读页的已有行为。
 

diff --git a/docs/pages/learning-plans/README.md b/docs/pages/learning-plans/README.md
@@ -10,7 +10,7 @@
 
 无扩展名的《数学建模编程手一月计划》也按 Markdown 收录。两份原 HTML 指南保留原有排版，在隔离的 iframe 中阅读，支持全文检索其文字内容。有外部资源的历史 HTML 仍可能需要网络。
 
-总封面使用内置 imagegen 生成，并按用户要求将铅笔替换为钢笔：[封面](阅读资源/learning-plans-hero.png) · [最终提示词与编辑记录](阅读资源/learning-plans-hero.prompt.txt)。所有图片保存在本目录，生成站点统一位于 Git 忽略的 `docs/site`。
+总封面使用内置 imagegen 生成，并按用户要求将铅笔替换为具有金属质感的钢笔：不透明墨绿色金属笔身、黄铜配件与金色笔尖。[封面](阅读资源/learning-plans-hero.png) · [最终提示词与编辑记录](阅读资源/learning-plans-hero.prompt.txt)。所有图片保存在本目录，生成站点统一位于 Git 忽略的 `docs/site`。
 
 构建：`python docs/pages/build_site.py --output docs/site`。
 检查：`python -m unittest discover -s docs/pages -p 'test_*.py'`。
